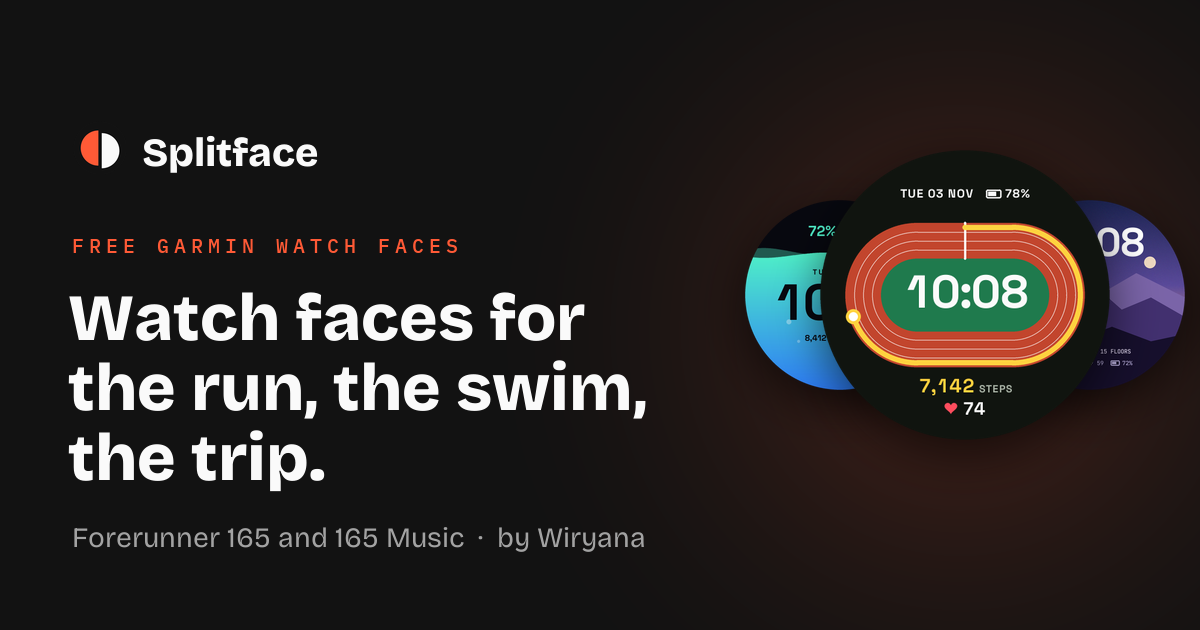
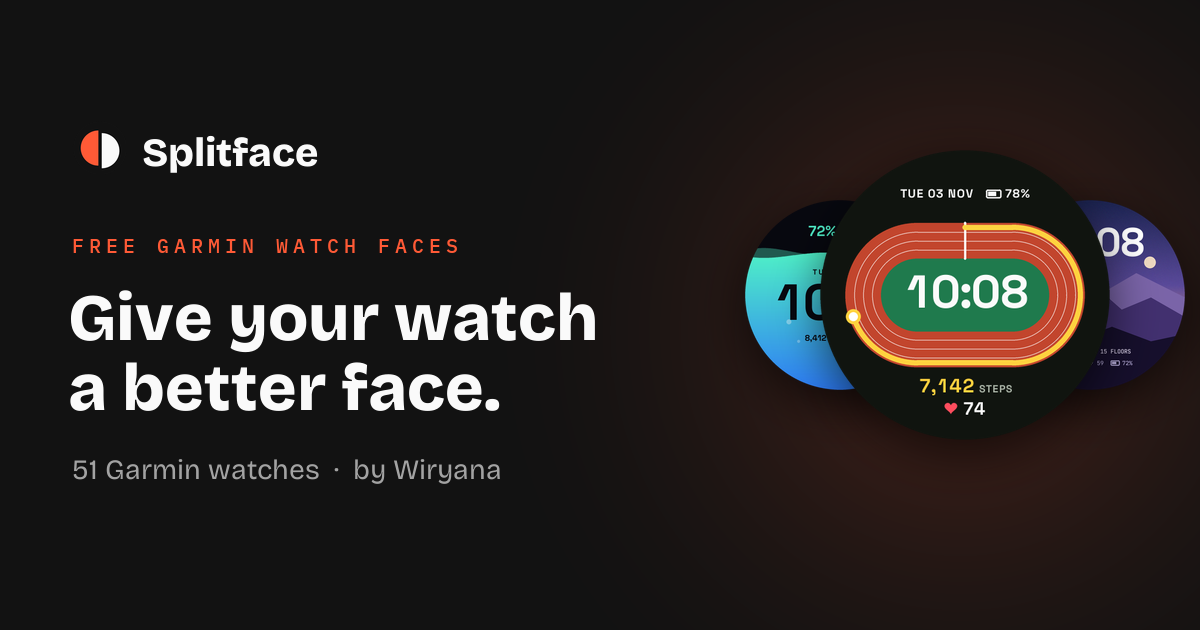
Show the faces on 51 Garmin watches
Version 1.1.0 is live on round AMOLED watches, so the hero, facts, share
banner and description now say so, and the install guide ends with an
expandable list of compatible watches. The faces are store only now: the
manual download guide, Download buttons and the watch picker are gone.

Changed region(s): [[0.0617, 0.4524, 0.555, 0.6635], [0.0617, 0.6937, 0.4317, 0.7841], [0.0617, 0.8444, 0.555, 0.8746]]

diff --git a/components/landing/install-guide.tsx b/components/landing/install-guide.tsx
@@ -1,8 +1,4 @@
-"use client";
-
-import { RiDownloadLine, RiSmartphoneLine } from "@remixicon/react";
-import { Chip } from "@/components/base/badges/chip";
-import { Tab, TabList, TabPanel, Tabs } from "@/components/base/tabs/tabs";
+import { Compatible } from "./compatible";
 
 interface Step {
   title: string;
@@ -24,79 +20,32 @@ const STORE_STEPS: Step[] = [
   },
 ];
 
-const MANUAL_STEPS: Step[] = [
-  {
-    title: "Download the file",
-    body: "Pick your watch above the catalog, then tap Download on a face. You get a .prg file made for the Forerunner 165 or the 165 Music.",
-  },
-  {
-    title: "Copy it to the watch",
-    body: "Plug the watch into your computer with its charging cable. On a Mac, open a file transfer app such as OpenMTP; Windows shows the watch in File Explorer. Copy the file into the GARMIN/APPS folder.",
-  },
-  {
-    title: "Pick the face",
-    body: "Unplug the watch. Hold UP on the watch face, choose Watch Face, then select the new face and press START.",
-  },
-];
-
-function Steps({ steps }: { steps: Step[] }) {
-  return (
-    <ol className="grid gap-4 sm:grid-cols-3">
-      {steps.map((step, i) => (
-        <li
-          key={step.title}
-          className="flex flex-col gap-3 rounded-3xl border border-border-button-default bg-background-primary-default p-6"
-        >
-          <span className="text-display-4-bold text-accent-500">{i + 1}</span>
-          <h3 className="text-title-3-bold">{step.title}</h3>
-          <p className="text-body-regular text-text-secondary">{step.body}</p>
-        </li>
-      ))}
-    </ol>
-  );
-}
-
-// The two ways to get a face: from the Connect IQ Store, or as a file copied over USB
+// Getting a face from the Connect IQ Store, in three steps, then the watches it runs on
 export function InstallGuide() {
   return (
     <section id="install" className="flex flex-col gap-10 border-t border-separator-border py-24">
       <div className="flex max-w-2xl flex-col gap-3">
         <span className="font-mono text-caption-1-medium uppercase text-text-secondary">Install guide</span>
-        <h2 className="text-display-2-bold">Two ways to get a face on your wrist.</h2>
+        <h2 className="text-display-2-bold">Three steps to a new face.</h2>
         <p className="text-body-regular text-text-secondary">
-          The Connect IQ Store is the easiest: one tap, color settings, and updates when a face improves. Or download the
-          file and copy it to your watch yourself.
+          Every face is on the Connect IQ Store, with color settings and updates whenever a face improves.
         </p>
       </div>
 
-      <Tabs defaultSelectedKey="store" className="flex flex-col gap-8">
-        <TabList aria-label="How to install">
-          <Tab id="store" icon={RiSmartphoneLine}>
-            Connect IQ Store
-          </Tab>
-          <Tab id="manual" icon={RiDownloadLine}>
-            Manual download
-          </Tab>
-        </TabList>
+      <ol className="grid gap-4 sm:grid-cols-3">
+        {STORE_STEPS.map((step, i) => (
+          <li
+            key={step.title}
+            className="flex flex-col gap-3 rounded-3xl border border-border-button-default bg-background-primary-default p-6"
+          >
+            <span className="text-display-4-bold text-accent-500">{i + 1}</span>
+            <h3 className="text-title-3-bold">{step.title}</h3>
+            <p className="text-body-regular text-text-secondary">{step.body}</p>
+          </li>
+        ))}
+      </ol>
 
-        <TabPanel id="store" className="flex flex-col gap-6 outline-none">
-          <div className="flex flex-wrap items-center gap-2">
-            <Chip variant="caption" color="orange">
-              Recommended
-            </Chip>
-            <span className="text-body-regular text-text-secondary">Settings and updates included.</span>
-          </div>
-          <Steps steps={STORE_STEPS} />
-        </TabPanel>
-
-        <TabPanel id="manual" className="flex flex-col gap-6 outline-none">
-          <Steps steps={MANUAL_STEPS} />
-          <p className="rounded-2xl border border-dashed border-border-button-default p-5 text-body-regular text-text-secondary">
-            Faces copied over by hand use their default colors and don&apos;t update on their own, because settings and
-            updates come through the Connect IQ app. Install from the store to choose colors, cities and time zones.
-          </p>
-        </TabPanel>
-      </Tabs>
+      <Compatible />
     </section>
   );
 }

diff --git a/components/landing/catalog.tsx b/components/landing/catalog.tsx
@@ -1,14 +1,8 @@
-"use client";
-
-import { useState } from "react";
-import { SegmentedControl, SegmentedControlItem } from "@/components/base/segmented-control/segmented-control";
-import { FACES, MODELS, type ModelId } from "./faces";
+import { FACES } from "./faces";
 import { FaceCard } from "./face-card";
 
-// The catalog grid, with one watch model picker that every Download button follows
+// The catalog grid (the corner beside the heading is kept free for a later watch brand picker)
 export function Catalog() {
-  const [model, setModel] = useState<ModelId>("fr165");
-
   return (
     <section id="faces" className="flex flex-col gap-10 py-24">
       <div className="flex flex-wrap items-end justify-between gap-6">
@@ -17,33 +11,14 @@ export function Catalog() {
           <h2 className="text-display-2-bold">Pick a face, any face.</h2>
           <p className="text-body-regular text-text-secondary">
             Hover a face to watch it move: steps fill the lap, the battery drains, the plane flies. Get it from Connect IQ
-            for one tap installs and color settings, or download the file and copy it to your watch yourself.
+            for one tap installs, color settings and updates.
           </p>
-        </div>
-        <div className="flex flex-col items-start gap-2">
-          <span className="font-mono text-caption-1-medium uppercase text-text-tertiary">Your watch</span>
-          {/* The dark theme's track matches the page, so a hairline and a lifted fill keep it visible */}
-          <SegmentedControl
-            aria-label="Your watch"
-            className="border border-border-button-default bg-background-secondary-default"
-            selectedKeys={[model]}
-            onSelectionChange={(keys) => {
-              const [next] = [...keys];
-              if (next) setModel(next as ModelId);
-            }}
-          >
-            {MODELS.map((m) => (
-              <SegmentedControlItem key={m.id} id={m.id}>
-                {m.name}
-              </SegmentedControlItem>
-            ))}
-          </SegmentedControl>
         </div>
       </div>
 
       <div className="grid grid-cols-1 gap-6 sm:grid-cols-2 lg:grid-cols-3">
         {FACES.map((face, i) => (
-          <FaceCard key={face.id} face={face} number={i + 1} model={model} />
+          <FaceCard key={face.id} face={face} number={i + 1} />
         ))}
       </div>
     </section>

diff --git a/components/landing/compatible.tsx b/components/landing/compatible.tsx
@@ -1,0 +1,43 @@
+"use client";
+
+import { Accordion, AccordionItem } from "@/components/base/accordion/accordion";
+
+// The watches every face supports (version 1.1.0), grouped by family. It mirrors the products
+// in each face's manifest.xml, which WatchFaces/tools/set_products.py fills with every round
+// AMOLED Garmin; sizes of one model are listed once.
+const FAMILIES: { name: string; models: string[] }[] = [
+  { name: "Forerunner", models: ["70", "165", "165 Music", "170", "170 Music", "265", "265S", "570", "965", "970"] },
+  { name: "fēnix", models: ["8", "8 Pro", "9", "9 Pro", "E"] },
+  { name: "Venu", models: ["2", "2 Plus", "2S", "3", "3S", "4"] },
+  { name: "vívoactive", models: ["5", "6"] },
+  { name: "epix", models: ["Gen 2", "Pro Gen 2"] },
+  { name: "Instinct", models: ["3 AMOLED", "Crossover AMOLED"] },
+  { name: "MARQ", models: ["Gen 2", "Aviator Gen 2", "Gen 3"] },
+  { name: "quatix", models: ["7 Sapphire", "7 Pro", "8", "8 Pro"] },
+  { name: "tactix", models: ["7 AMOLED", "8"] },
+  { name: "Approach", models: ["S50", "S70", "S72"] },
+  { name: "Descent", models: ["G2", "Mk3", "Mk3i"] },
+  { name: "D2", models: ["Air X10", "Air X15", "Mach 1", "Mach 1 Pro", "Mach 2", "Mach 2 Pro"] },
+];
+
+// Which Garmin watches the faces run on: one quiet row that opens to the list
+export function Compatible() {
+  return (
+    <Accordion className="border-t border-separator-border">
+      <AccordionItem
+        id="watches"
+        title="Compatible watches"
+        description="51 round AMOLED Garmin watches, every size. Open to check yours."
+      >
+        <dl className="grid grid-cols-2 gap-x-6 gap-y-5 pt-2 pb-4 sm:gap-x-10 lg:grid-cols-3">
+          {FAMILIES.map((family) => (
+            <div key={family.name} className="flex flex-col gap-1">
+              <dt className="font-mono text-caption-1-medium uppercase text-text-tertiary">{family.name}</dt>
+              <dd className="text-body-regular text-text-primary">{family.models.join(", ")}</dd>
+            </div>
+          ))}
+        </dl>
+      </AccordionItem>
+    </Accordion>
+  );
+}

diff --git a/components/landing/face-card.tsx b/components/landing/face-card.tsx
@@ -2,15 +2,15 @@
 
 import { useEffect, useRef, useState } from "react";
 import { Focusable } from "react-aria-components";
-import { RiDownloadLine, RiExternalLinkLine, RiPauseFill, RiPlayFill } from "@remixicon/react";
+import { RiExternalLinkLine, RiPauseFill, RiPlayFill } from "@remixicon/react";
 import { Button, ButtonLink } from "@/components/base/buttons/button";
 import { Chip } from "@/components/base/badges/chip";
 import { Tooltip, TooltipTrigger } from "@/components/base/tooltip/tooltip";
-import type { Face, ModelId } from "./faces";
-import { Watch, asset, loop, still } from "./watch";
+import type { Face } from "./faces";
+import { Watch, loop, still } from "./watch";
 import { cx } from "@/utils/cx";
 
-export function FaceCard({ face, number, model }: { face: Face; number: number; model: ModelId }) {
+export function FaceCard({ face, number }: { face: Face; number: number }) {
   const ref = useRef<HTMLElement>(null);
   const [awake, setAwake] = useState(false);
   // Playing swaps the still for the looping preview, which restarts from its first frame
@@ -103,7 +103,7 @@ export function FaceCard({ face, number, model }: { face: Face; number: number; 
           ))}
         </div>
 
-        <div className="mt-auto grid grid-cols-2 gap-2">
+        <div className="mt-auto flex flex-col">
           {face.store ? (
             <ButtonLink href={face.store} target="_blank" rel="noopener" trailingIcon={RiExternalLinkLine}>
               Connect IQ
@@ -118,14 +118,6 @@ export function FaceCard({ face, number, model }: { face: Face; number: number; 
               <Tooltip>Coming soon to the Connect IQ Store</Tooltip>
             </TooltipTrigger>
           )}
-          <ButtonLink
-            href={asset(`/downloads/${face.file}-${model}.prg`)}
-            download
-            variant={face.store ? "secondary" : "primary"}
-            leadingIcon={RiDownloadLine}
-          >
-            Download
-          </ButtonLink>
         </div>
       </div>
     </article>

diff --git a/app/page.tsx b/app/page.tsx
@@ -15,7 +15,7 @@ const FACTS = [
   // The count follows the catalog, so it stays right as faces are added
   { value: String(FACES.length), label: "Faces" },
   { value: "$0", label: "Forever" },
-  { value: "390", label: "px AMOLED" },
+  { value: "51", label: "Garmin watches" },
 ];
 
 export default function Home() {
@@ -41,7 +41,7 @@ export default function Home() {
         {/* Centered like a poster: label, headline, actions, then the big screen in a warm glow */}
         <section className="flex flex-col items-center gap-8 pt-16 pb-20 text-center lg:pt-24">
           <span className="landing-rise font-mono text-eyebrow-medium uppercase text-accent-500">
-            Forerunner 165<span className="hidden sm:inline"> · Watch faces</span>
+            51 Garmin watches<span className="hidden sm:inline"> · Watch faces</span>
           </span>
           <h1 className="landing-rise max-w-[18ch] text-hero-bold text-balance" style={{ "--delay": "80ms" } as CSSProperties}>
             Give your watch a better face.

diff --git a/app/layout.tsx b/app/layout.tsx
@@ -18,7 +18,7 @@ const mono = IBM_Plex_Mono({
 // Where the site is published, for absolute links in social previews
 const SITE = "https://trysplitface.com";
 const TITLE = "Splitface · Free Garmin watch faces";
-const DESCRIPTION = "Hand built, free watch faces for the Garmin Forerunner 165 and 165 Music.";
+const DESCRIPTION = "Hand built, free watch faces for 51 Garmin watches with a round AMOLED screen, from the Forerunner 165 to the fēnix 9.";
 
 export const metadata: Metadata = {
   metadataBase: new URL(SITE),
@@ -30,7 +30,7 @@ export const metadata: Metadata = {
     siteName: "Splitface",
     title: TITLE,
     description: DESCRIPTION,
-    images: [{ url: `${SITE}/og.png`, width: 1200, height: 630, alt: "Splitface watch faces for the Garmin Forerunner 165" }],
+    images: [{ url: `${SITE}/og.png`, width: 1200, height: 630, alt: "Splitface watch faces for Garmin watches" }],
   },
   twitter: {
     card: "summary_large_image",

diff --git a/components/landing/faces.ts b/components/landing/faces.ts
@@ -95,10 +95,3 @@ export const FACES: Face[] = [
     tags: ["Two time zones", "Steps", "Heart rate", "Your cities"],
   },
 ];
-
-export const MODELS = [
-  { id: "fr165", name: "Forerunner 165" },
-  { id: "fr165m", name: "Forerunner 165 Music" },
-] as const;
-
-export type ModelId = (typeof MODELS)[number]["id"];

diff --git a/tools/brand.py b/tools/brand.py
@@ -71,9 +71,9 @@ def banner():
     for ch in "FREE GARMIN WATCH FACES":
         d.text((cx, 232), ch, font=label, fill=CORAL)
         cx += label.getlength(ch) + 5
-    for i, line in enumerate(["Watch faces for", "the run, the swim,", "the trip."]):
+    for i, line in enumerate(["Give your watch", "a better face."]):
         d.text((68, 278 + i * 70), line, font=title, fill=WHITE)
-    d.text((72, 520), "Forerunner 165 and 165 Music  ·  by Wiryana", font=body, fill=MUTED)
+    d.text((72, 452), "51 Garmin watches  ·  by Wiryana", font=body, fill=MUTED)
     return img.convert("RGB")
 
 
